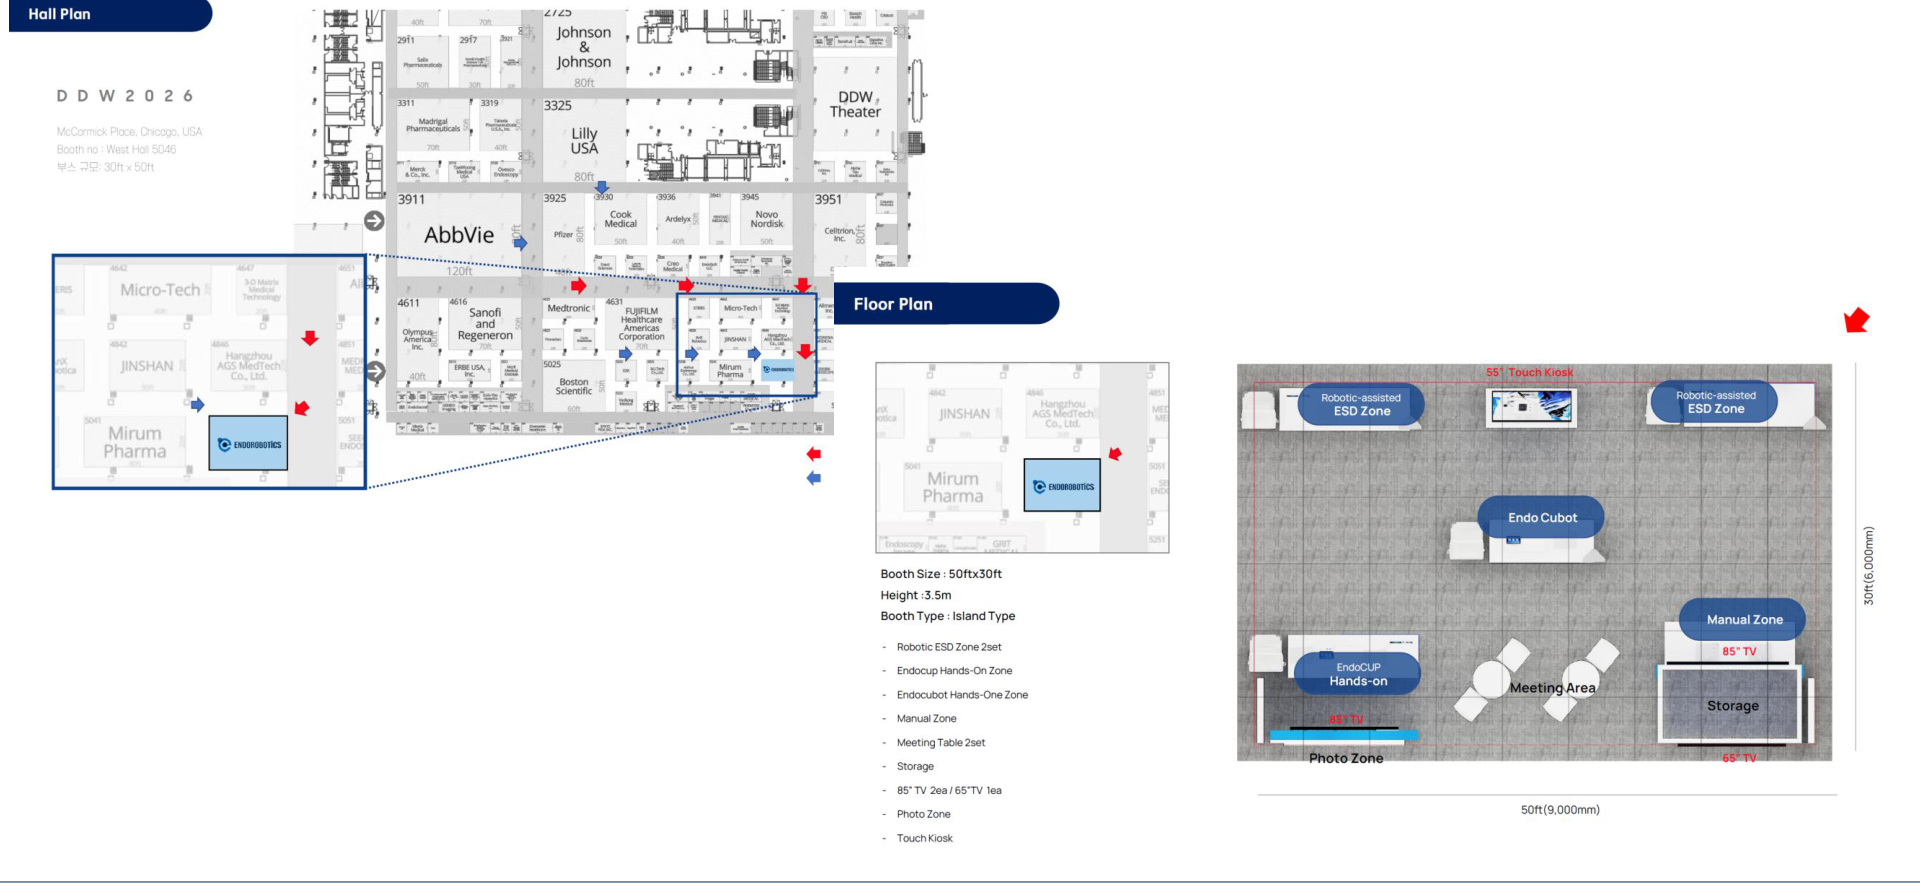
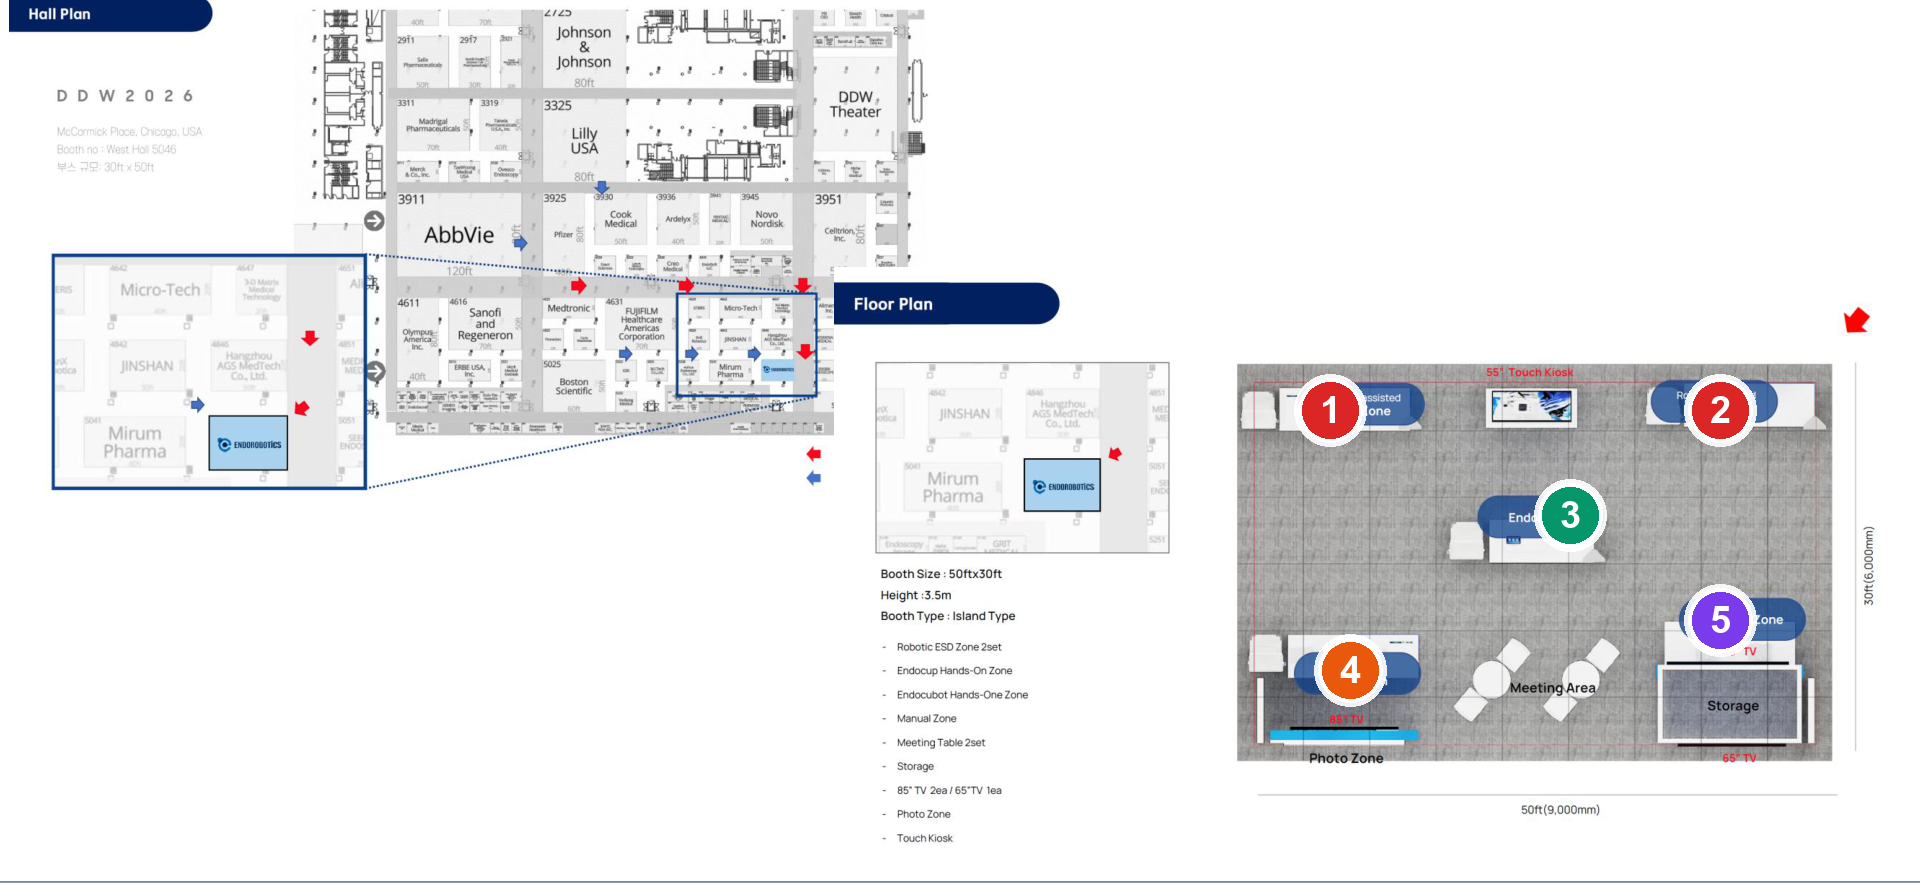
Overlay numbered color-coded zone badges on booth layout images
Each Zone now has a matching colored circle on the floor plan + Zone
card legend bullet:
  🔴 1·2  RESD 핸즈온   (DDW ×2 / ESGE ×1)
  🟢 3/2  EndoCubot 핸즈온
  🟠 4/3  EndoCup 이벤트
  🟣 5/4  Manual Zone

diff --git a/docs/index.html b/docs/index.html
@@ -257,23 +257,31 @@
     </div>
   </div>
 
+  <style>
+    .zone-num { display: inline-flex; width: 1.4rem; height: 1.4rem; align-items: center; justify-content: center; border-radius: 50%; color: white; font-weight: 700; font-size: 0.8rem; margin-right: 0.5rem; flex-shrink: 0; }
+    .zone-resd   { background: #dc2626; }
+    .zone-cubot  { background: #059669; }
+    .zone-cup    { background: #ea580c; }
+    .zone-manual { background: #7c3aed; }
+  </style>
   <div class="grid md:grid-cols-2 gap-4 mt-4">
     <div class="border rounded-lg p-4 bg-white text-sm" style="border-color: var(--border); color: var(--text);">
       <div class="font-semibold mb-2" style="color: var(--brand);">DDW 부스 Zone (총 5개)</div>
-      <ul class="space-y-1.5 list-disc list-outside ml-5 leading-relaxed">
-        <li>RESD 핸즈온 <strong>× 2</strong></li>
-        <li>EndoCubot 핸즈온 <strong>× 1</strong></li>
-        <li>EndoCup 이벤트 <strong>× 1</strong></li>
-        <li>Manual Zone <strong>× 1</strong></li>
+      <ul class="space-y-1.5 leading-relaxed">
+        <li class="flex items-center"><span class="zone-num zone-resd">1</span>RESD 핸즈온 #1</li>
+        <li class="flex items-center"><span class="zone-num zone-resd">2</span>RESD 핸즈온 #2</li>
+        <li class="flex items-center"><span class="zone-num zone-cubot">3</span>EndoCubot 핸즈온</li>
+        <li class="flex items-center"><span class="zone-num zone-cup">4</span>EndoCup 이벤트</li>
+        <li class="flex items-center"><span class="zone-num zone-manual">5</span>Manual Zone</li>
       </ul>
     </div>
     <div class="border rounded-lg p-4 bg-white text-sm" style="border-color: var(--border); color: var(--text);">
       <div class="font-semibold mb-2" style="color: #047857;">ESGE 부스 Zone (총 4개)</div>
-      <ul class="space-y-1.5 list-disc list-outside ml-5 leading-relaxed">
-        <li>RESD 핸즈온 <strong>× 1</strong></li>
-        <li>EndoCubot 핸즈온 <strong>× 1</strong></li>
-        <li>EndoCup 이벤트 <strong>× 1</strong></li>
-        <li>Manual Zone <strong>× 1</strong></li>
+      <ul class="space-y-1.5 leading-relaxed">
+        <li class="flex items-center"><span class="zone-num zone-resd">1</span>RESD 핸즈온</li>
+        <li class="flex items-center"><span class="zone-num zone-cubot">2</span>EndoCubot 핸즈온</li>
+        <li class="flex items-center"><span class="zone-num zone-cup">3</span>EndoCup 이벤트</li>
+        <li class="flex items-center"><span class="zone-num zone-manual">4</span>Manual Zone</li>
       </ul>
     </div>
   </div>
